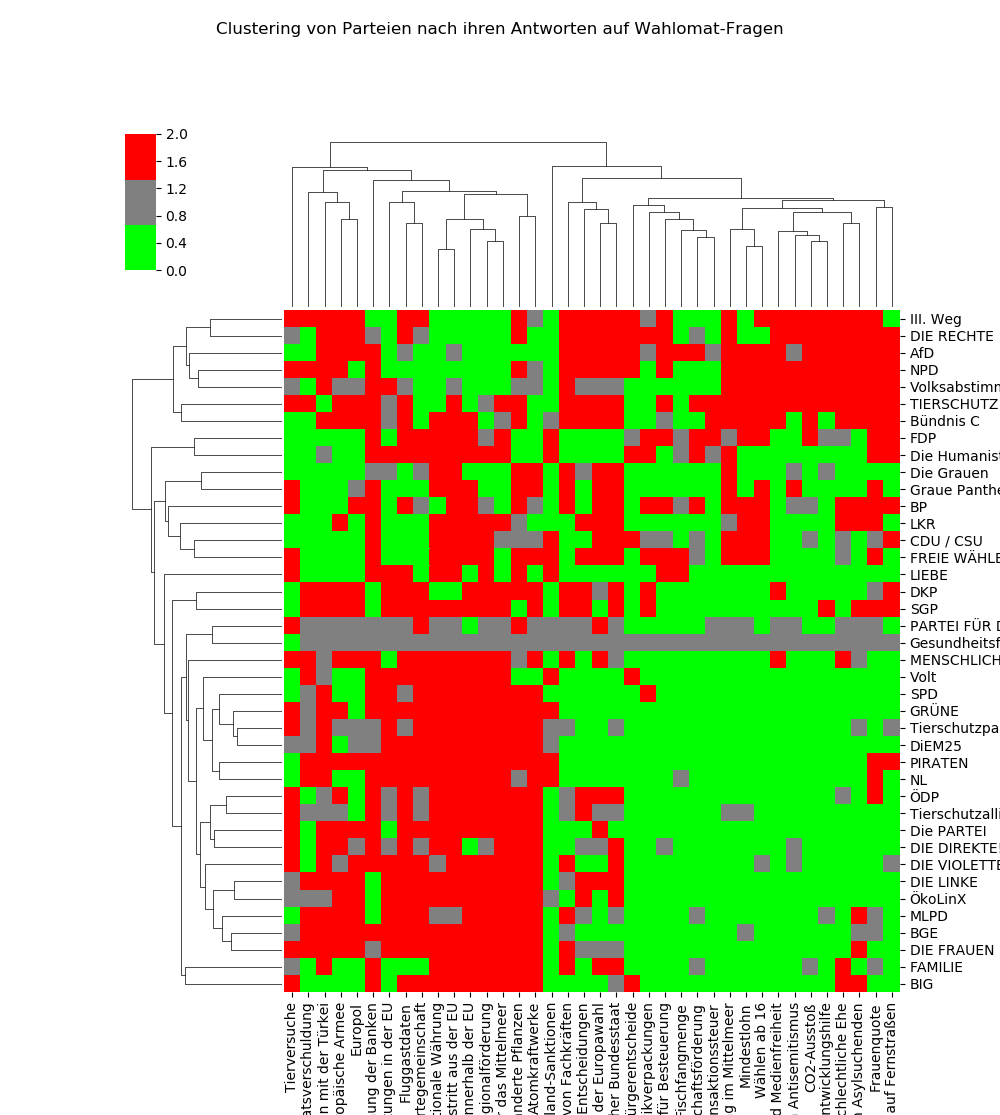
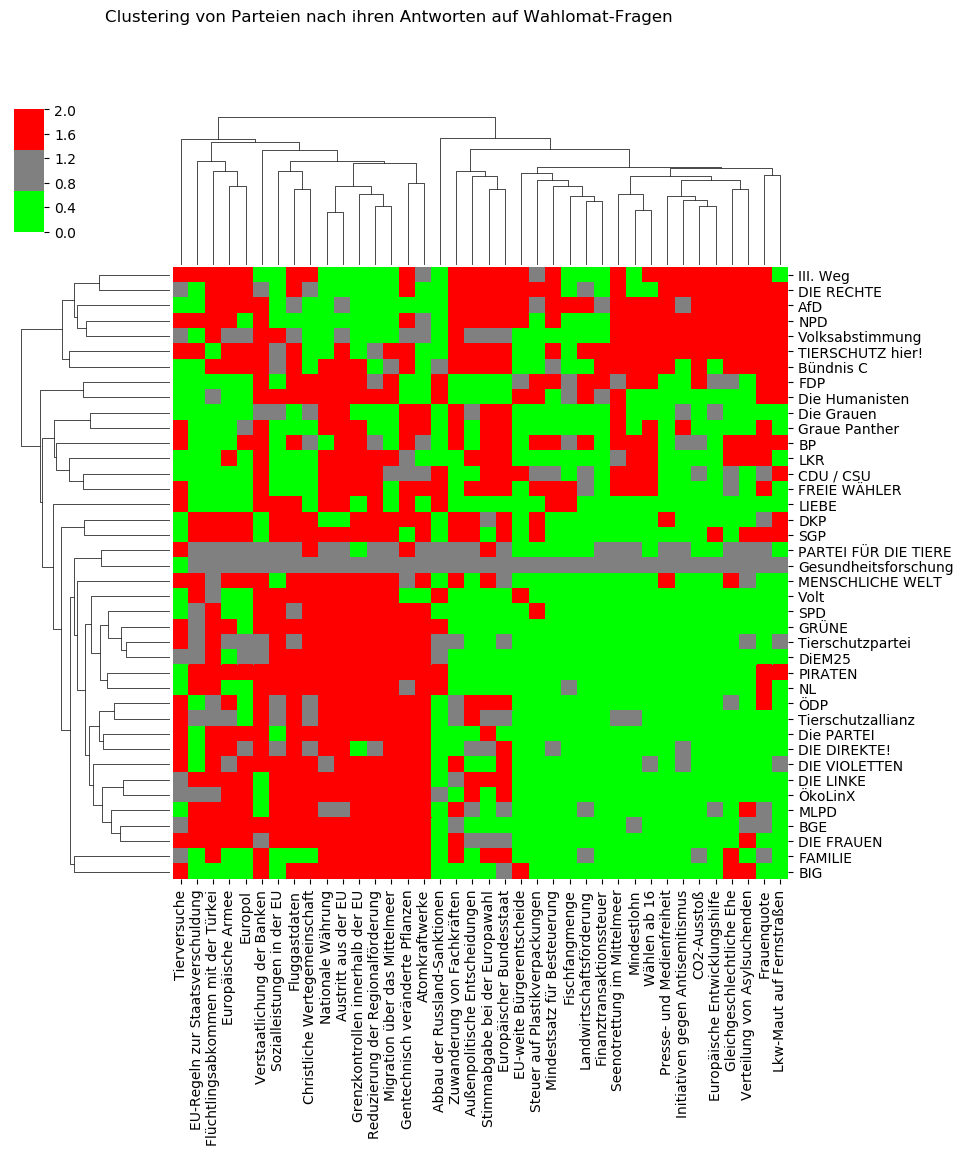
fix issue that figure borders were cut off

diff --git a/wahlomat-analysis/wahlomat-analyis.py b/wahlomat-analysis/wahlomat-analyis.py
@@ -14,6 +14,8 @@ import seaborn as sns
 import matplotlib.pyplot as plt
 from sklearn.cluster import KMeans
 from matplotlib.colors import LinearSegmentedColormap
+from matplotlib import rcParams
+rcParams.update({'figure.autolayout': True})
 
 def wahlomat_analysis():
     merged_df, all_data, raw_data = load_data()
@@ -49,6 +51,9 @@ def wahlomat_analysis():
     g.fig.suptitle('Clustering von Parteien nach ihren Antworten auf Wahlomat-Fragen')
     #g.set_axis_labels(['x label', 'y label'])
     #g.set(xlabel='my x label', ylabel='my y label')
+    #plt.tight_layout(False)
+    plt.savefig("test.png", bbox_inches='tight')
+
     plt.show()
 
     #kmeans = KMeans(n_clusters=2, random_state=0).fit(answers)
